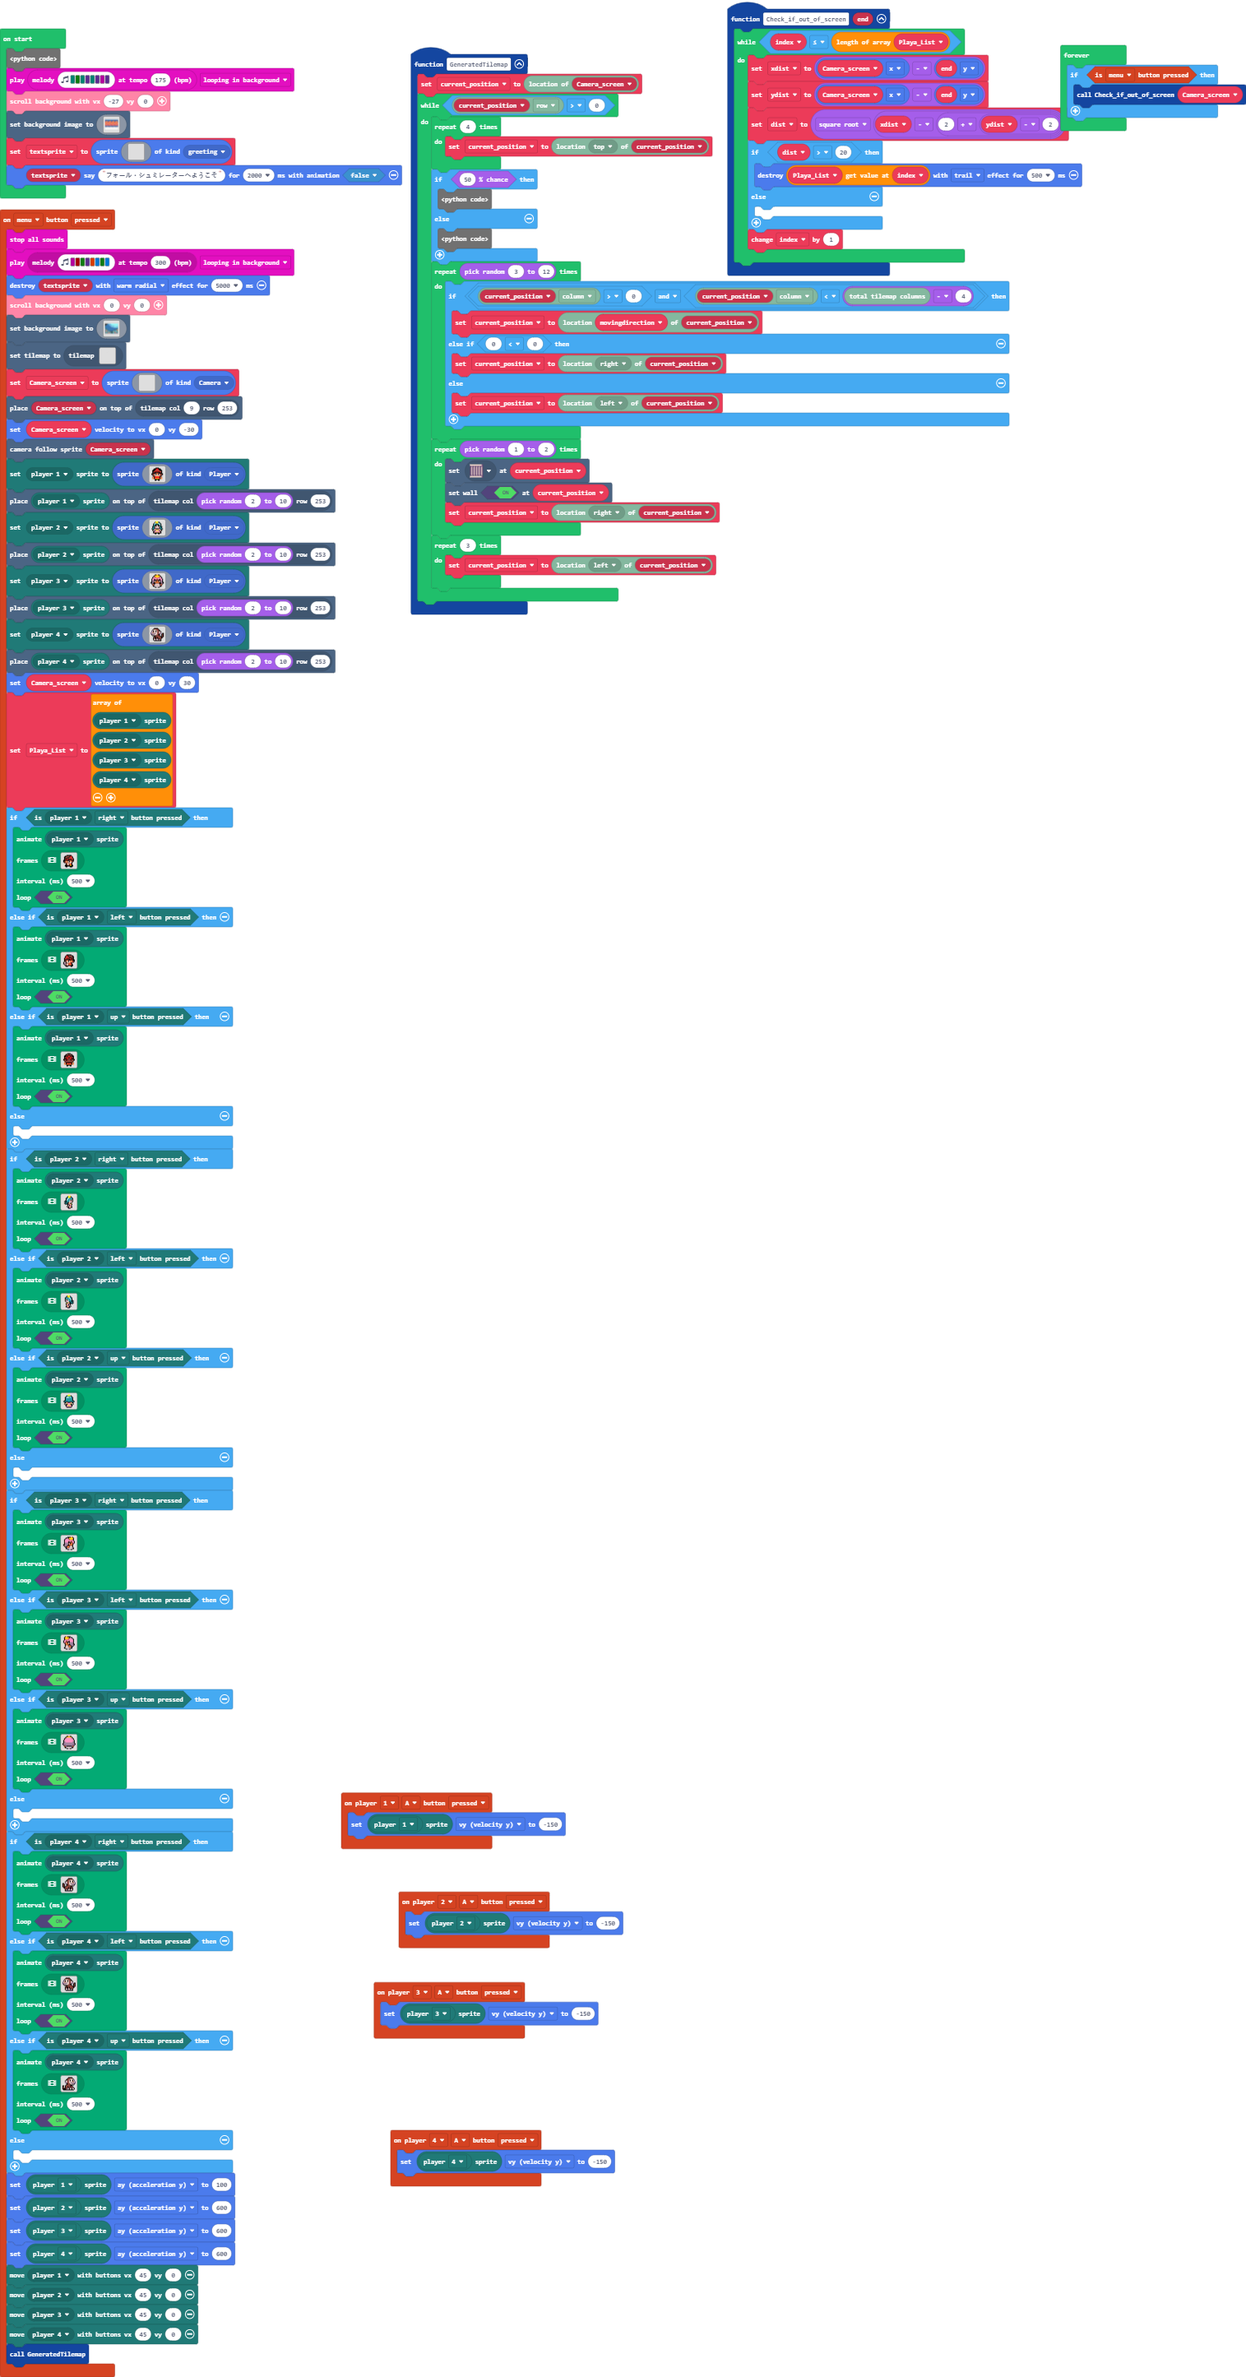
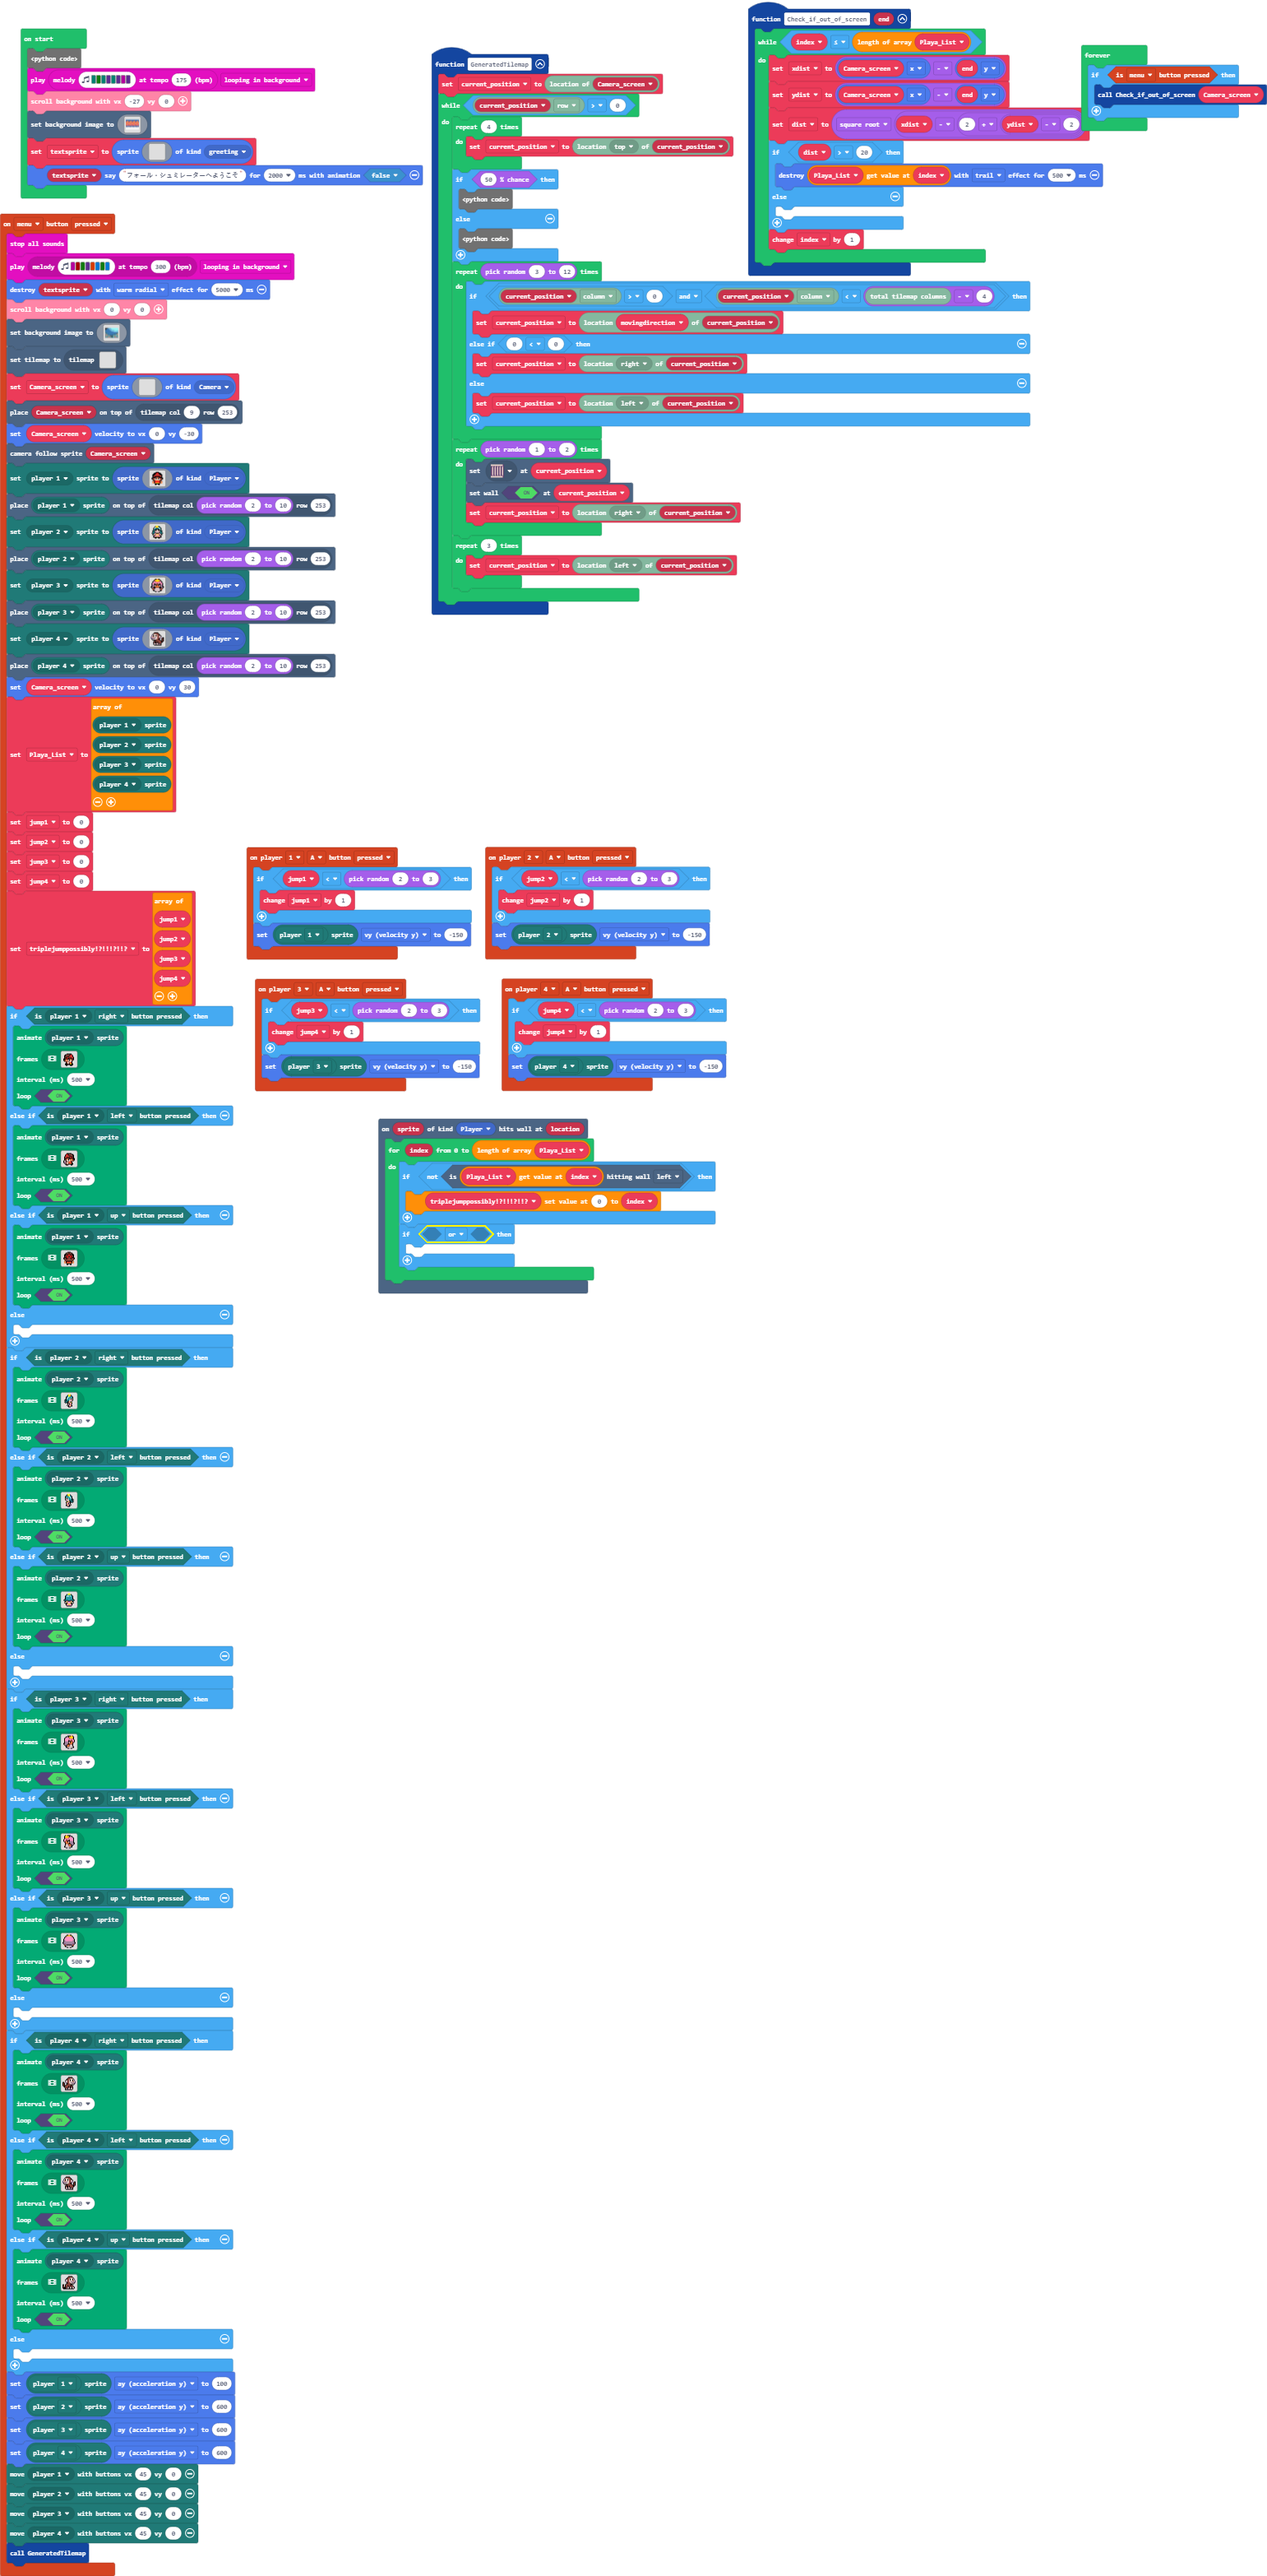
Update main.blocks, main.ts, tilemap.g.jres, tilemap.g.ts

Changed region(s): [[0.0, 0.0, 1.0, 0.9965], [0.2482, 0.7474, 0.4964, 0.9343]]

diff --git a/main.ts b/main.ts
@@ -2,7 +2,20 @@ namespace SpriteKind {
     export const Camera = SpriteKind.create()
     export const greeting = SpriteKind.create()
 }
+scene.onHitWall(SpriteKind.Player, function (sprite, location) {
+    for (let index = 0; index <= Playa_List.length; index++) {
+        if (!(Playa_List[index].isHittingTile(CollisionDirection.Left))) {
+            triplejumppossibly[0] = index
+        }
+        if (false || false) {
+        	
+        }
+    }
+})
 controller.player2.onButtonEvent(ControllerButton.A, ControllerButtonEvent.Pressed, function () {
+    if (jump2 < randint(2, 3)) {
+        jump2 += 1
+    }
     mp.getPlayerSprite(mp.playerSelector(mp.PlayerNumber.Two)).vy = -150
 })
 function Check_if_out_of_screen (end: Sprite) {
@@ -19,6 +32,9 @@ function Check_if_out_of_screen (end: Sprite) {
     }
 }
 controller.player4.onButtonEvent(ControllerButton.A, ControllerButtonEvent.Pressed, function () {
+    if (jump4 < randint(2, 3)) {
+        jump4 += 1
+    }
     mp.getPlayerSprite(mp.playerSelector(mp.PlayerNumber.Four)).vy = -150
 })
 controller.menu.onEvent(ControllerButtonEvent.Pressed, function () {
@@ -252,6 +268,16 @@ controller.menu.onEvent(ControllerButtonEvent.Pressed, function () {
     mp.getPlayerSprite(mp.playerSelector(mp.PlayerNumber.Two)),
     mp.getPlayerSprite(mp.playerSelector(mp.PlayerNumber.Three)),
     mp.getPlayerSprite(mp.playerSelector(mp.PlayerNumber.Four))
+    ]
+    jump1 = 0
+    jump2 = 0
+    jump3 = 0
+    jump4 = 0
+    triplejumppossibly = [
+    jump1,
+    jump2,
+    jump3,
+    jump4
     ]
     if (mp.isButtonPressed(mp.playerSelector(mp.PlayerNumber.One), mp.MultiplayerButton.Right)) {
         animation.runImageAnimation(
@@ -1125,9 +1151,15 @@ controller.menu.onEvent(ControllerButtonEvent.Pressed, function () {
     GeneratedTilemap()
 })
 controller.player1.onButtonEvent(ControllerButton.A, ControllerButtonEvent.Pressed, function () {
+    if (jump1 < randint(2, 3)) {
+        jump1 += 1
+    }
     mp.getPlayerSprite(mp.playerSelector(mp.PlayerNumber.One)).vy = -150
 })
 controller.player3.onButtonEvent(ControllerButton.A, ControllerButtonEvent.Pressed, function () {
+    if (jump3 < randint(2, 3)) {
+        jump4 += 1
+    }
     mp.getPlayerSprite(mp.playerSelector(mp.PlayerNumber.Three)).vy = -150
 })
 function GeneratedTilemap () {
@@ -1161,12 +1193,17 @@ function GeneratedTilemap () {
     }
 }
 let current_position: tiles.Location = null
+let jump3 = 0
+let jump1 = 0
+let jump4 = 0
 let dist = 0
 let ydist = 0
 let Camera_screen: Sprite = null
 let xdist = 0
-let Playa_List: Sprite[] = []
 let index = 0
+let jump2 = 0
+let triplejumppossibly: number[] = []
+let Playa_List: Sprite[] = []
 let textsprite: Sprite = null
 let movingdirection : number = null
 music.play(music.stringPlayable("F G F D F D C D ", 175), music.PlaybackMode.LoopingInBackground)

diff --git a/tilemap.g.ts b/tilemap.g.ts
@@ -320,6 +320,25 @@ namespace myTiles {
 . . . . . . . . . . . . . . . . 
 . . . . . . . . . . . . . . . . 
 `, [myTiles.transparency16], TileScale.Sixteen);
+            case "level5":
+            case "level5":return tiles.createTilemap(hex`1000100000000000000000000000000000000000000000000000000000000000000000000000000000000000000000000000000000000000000000000000000000000000000000000000000000000000000000000000000000000000000000000000000000000000000000000000000000000000000000000000000000000000000000000000000000000000000000000000000000000000000000000000000000000000000000000000000000000000000000000000000000000000000000000000000000000000000000000000000000000000000000000000000000000000000000000000000000000000000000000000000000000000000000000000000000000000`, img`
+. . . . . . . . . . . . . . . . 
+. . . . . . . . . . . . . . . . 
+. . . . . . . . . . . . . . . . 
+. . . . . . . . . . . . . . . . 
+. . . . . . . . . . . . . . . . 
+. . . . . . . . . . . . . . . . 
+. . . . . . . . . . . . . . . . 
+. . . . . . . . . . . . . . . . 
+. . . . . . . . . . . . . . . . 
+. . . . . . . . . . . . . . . . 
+. . . . . . . . . . . . . . . . 
+. . . . . . . . . . . . . . . . 
+. . . . . . . . . . . . . . . . 
+. . . . . . . . . . . . . . . . 
+. . . . . . . . . . . . . . . . 
+. . . . . . . . . . . . . . . . 
+`, [myTiles.transparency16], TileScale.Sixteen);
         }
         return null;
     })
